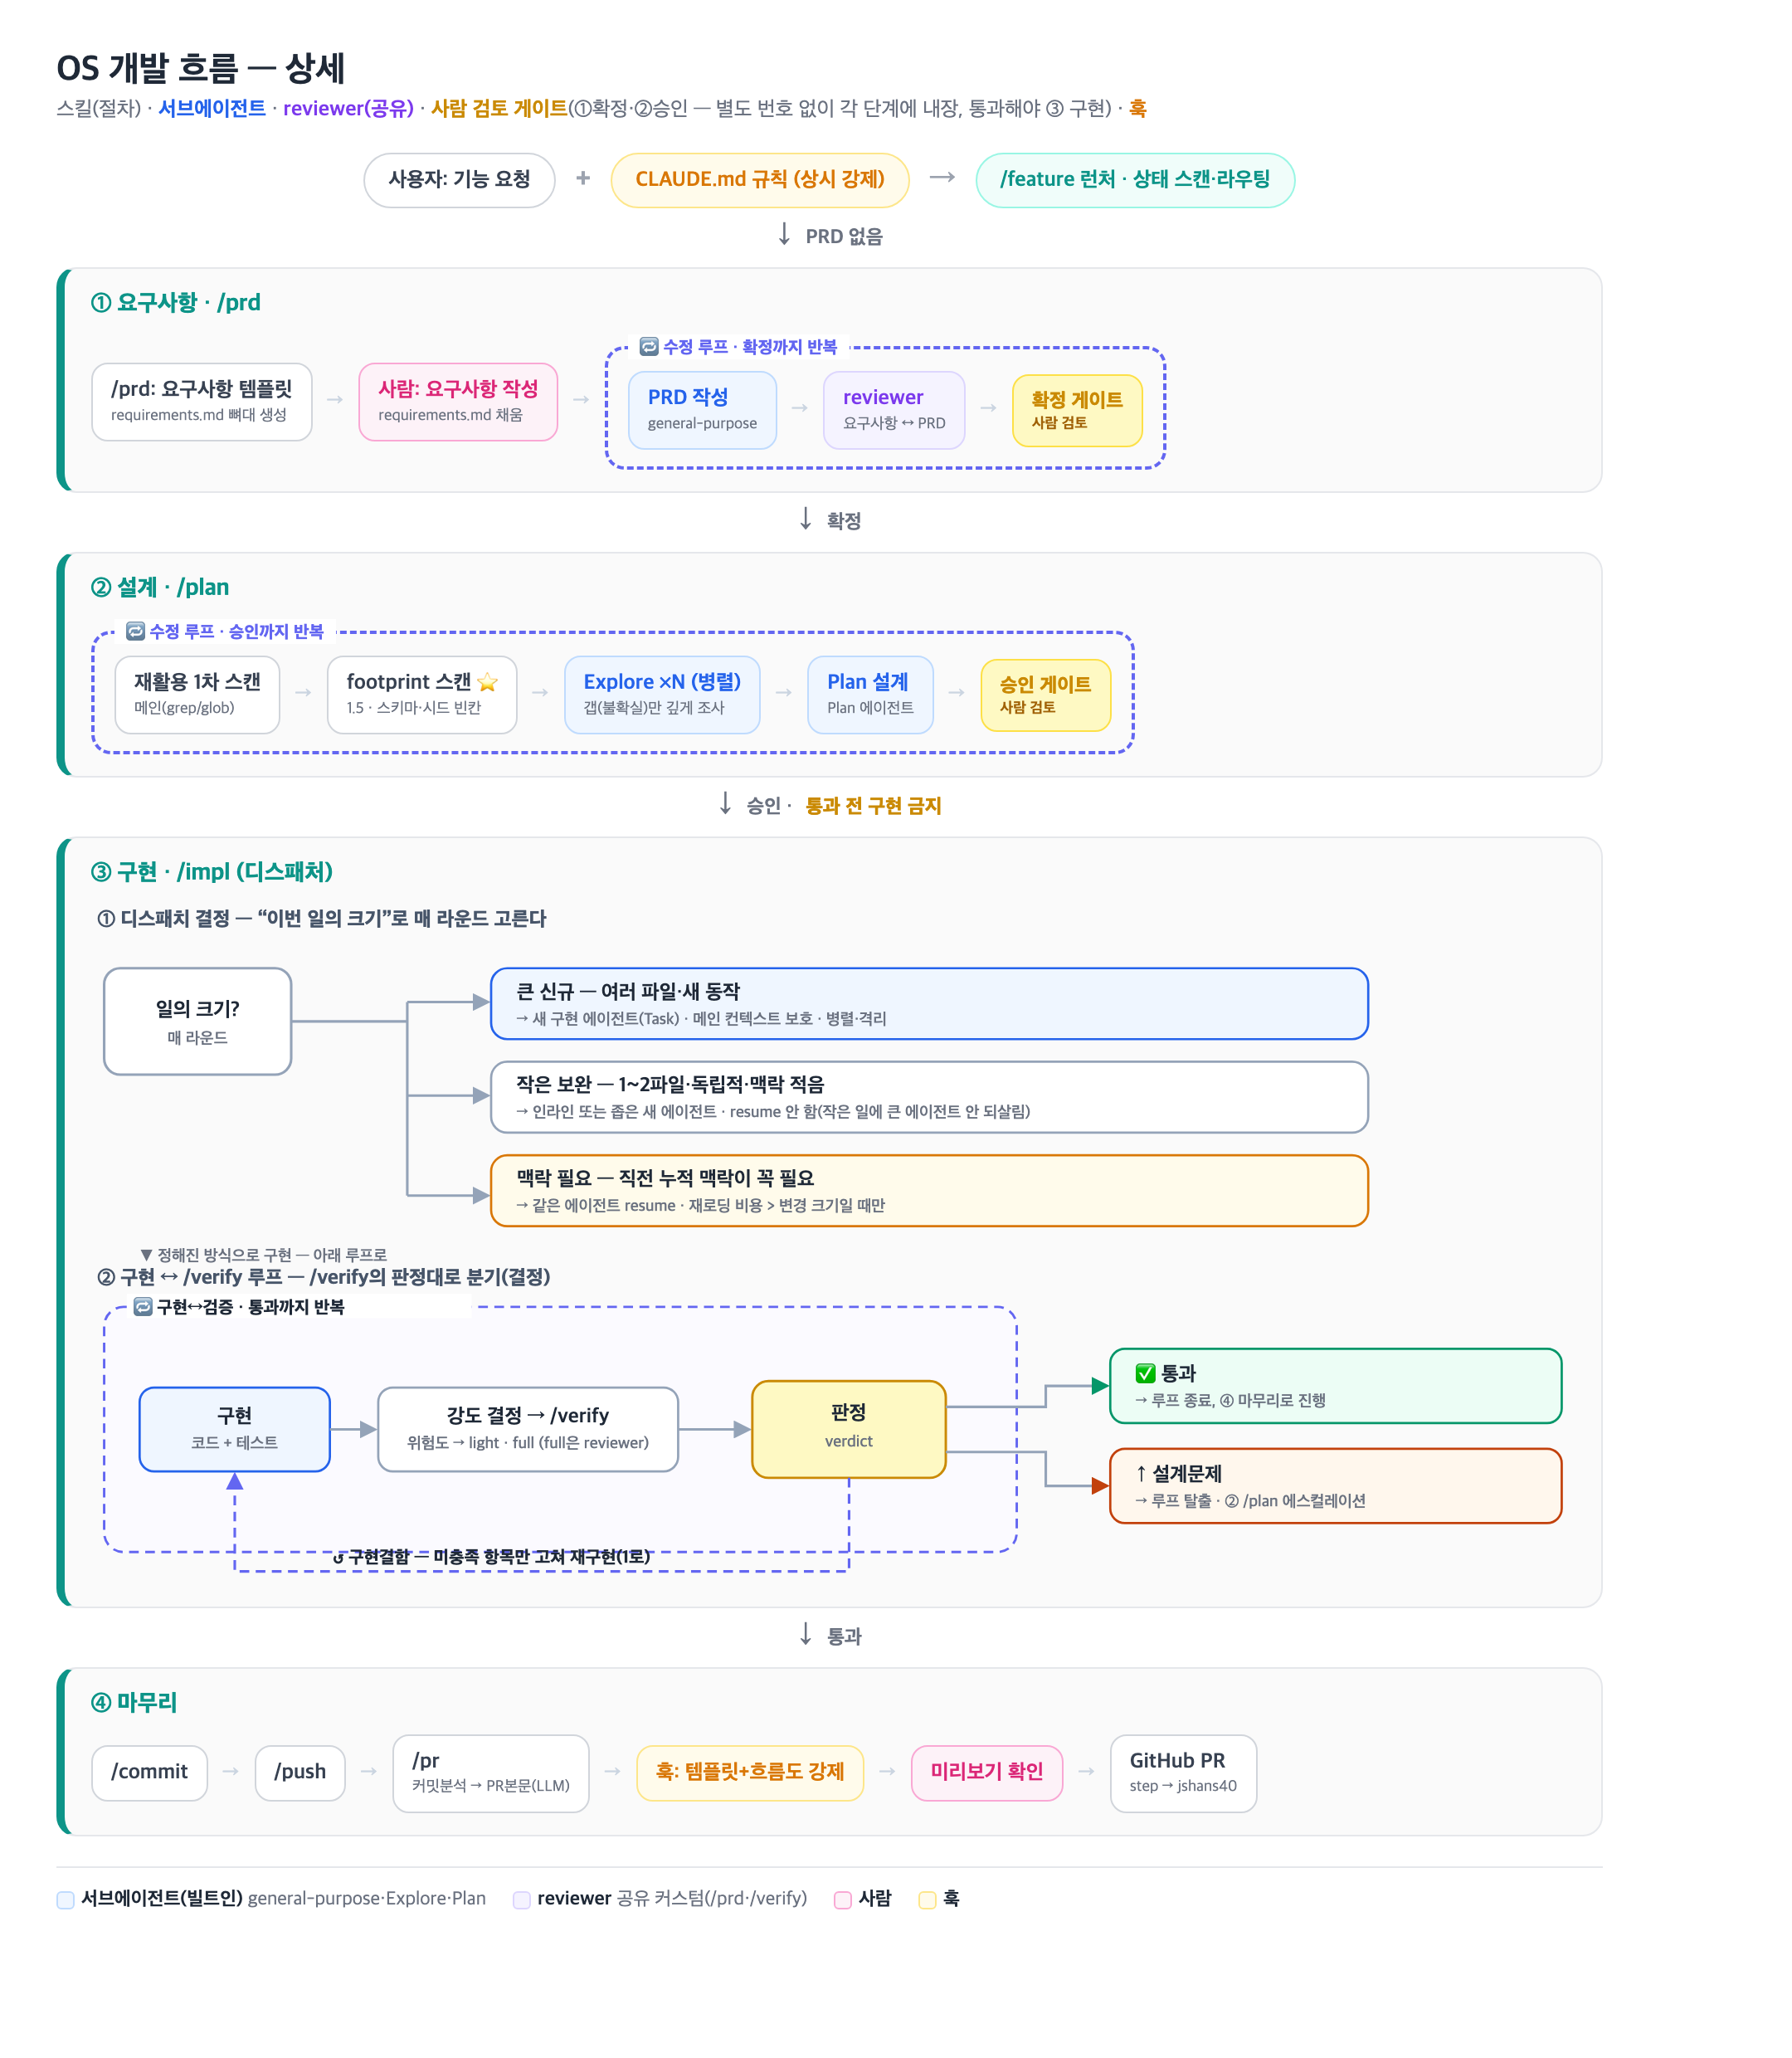
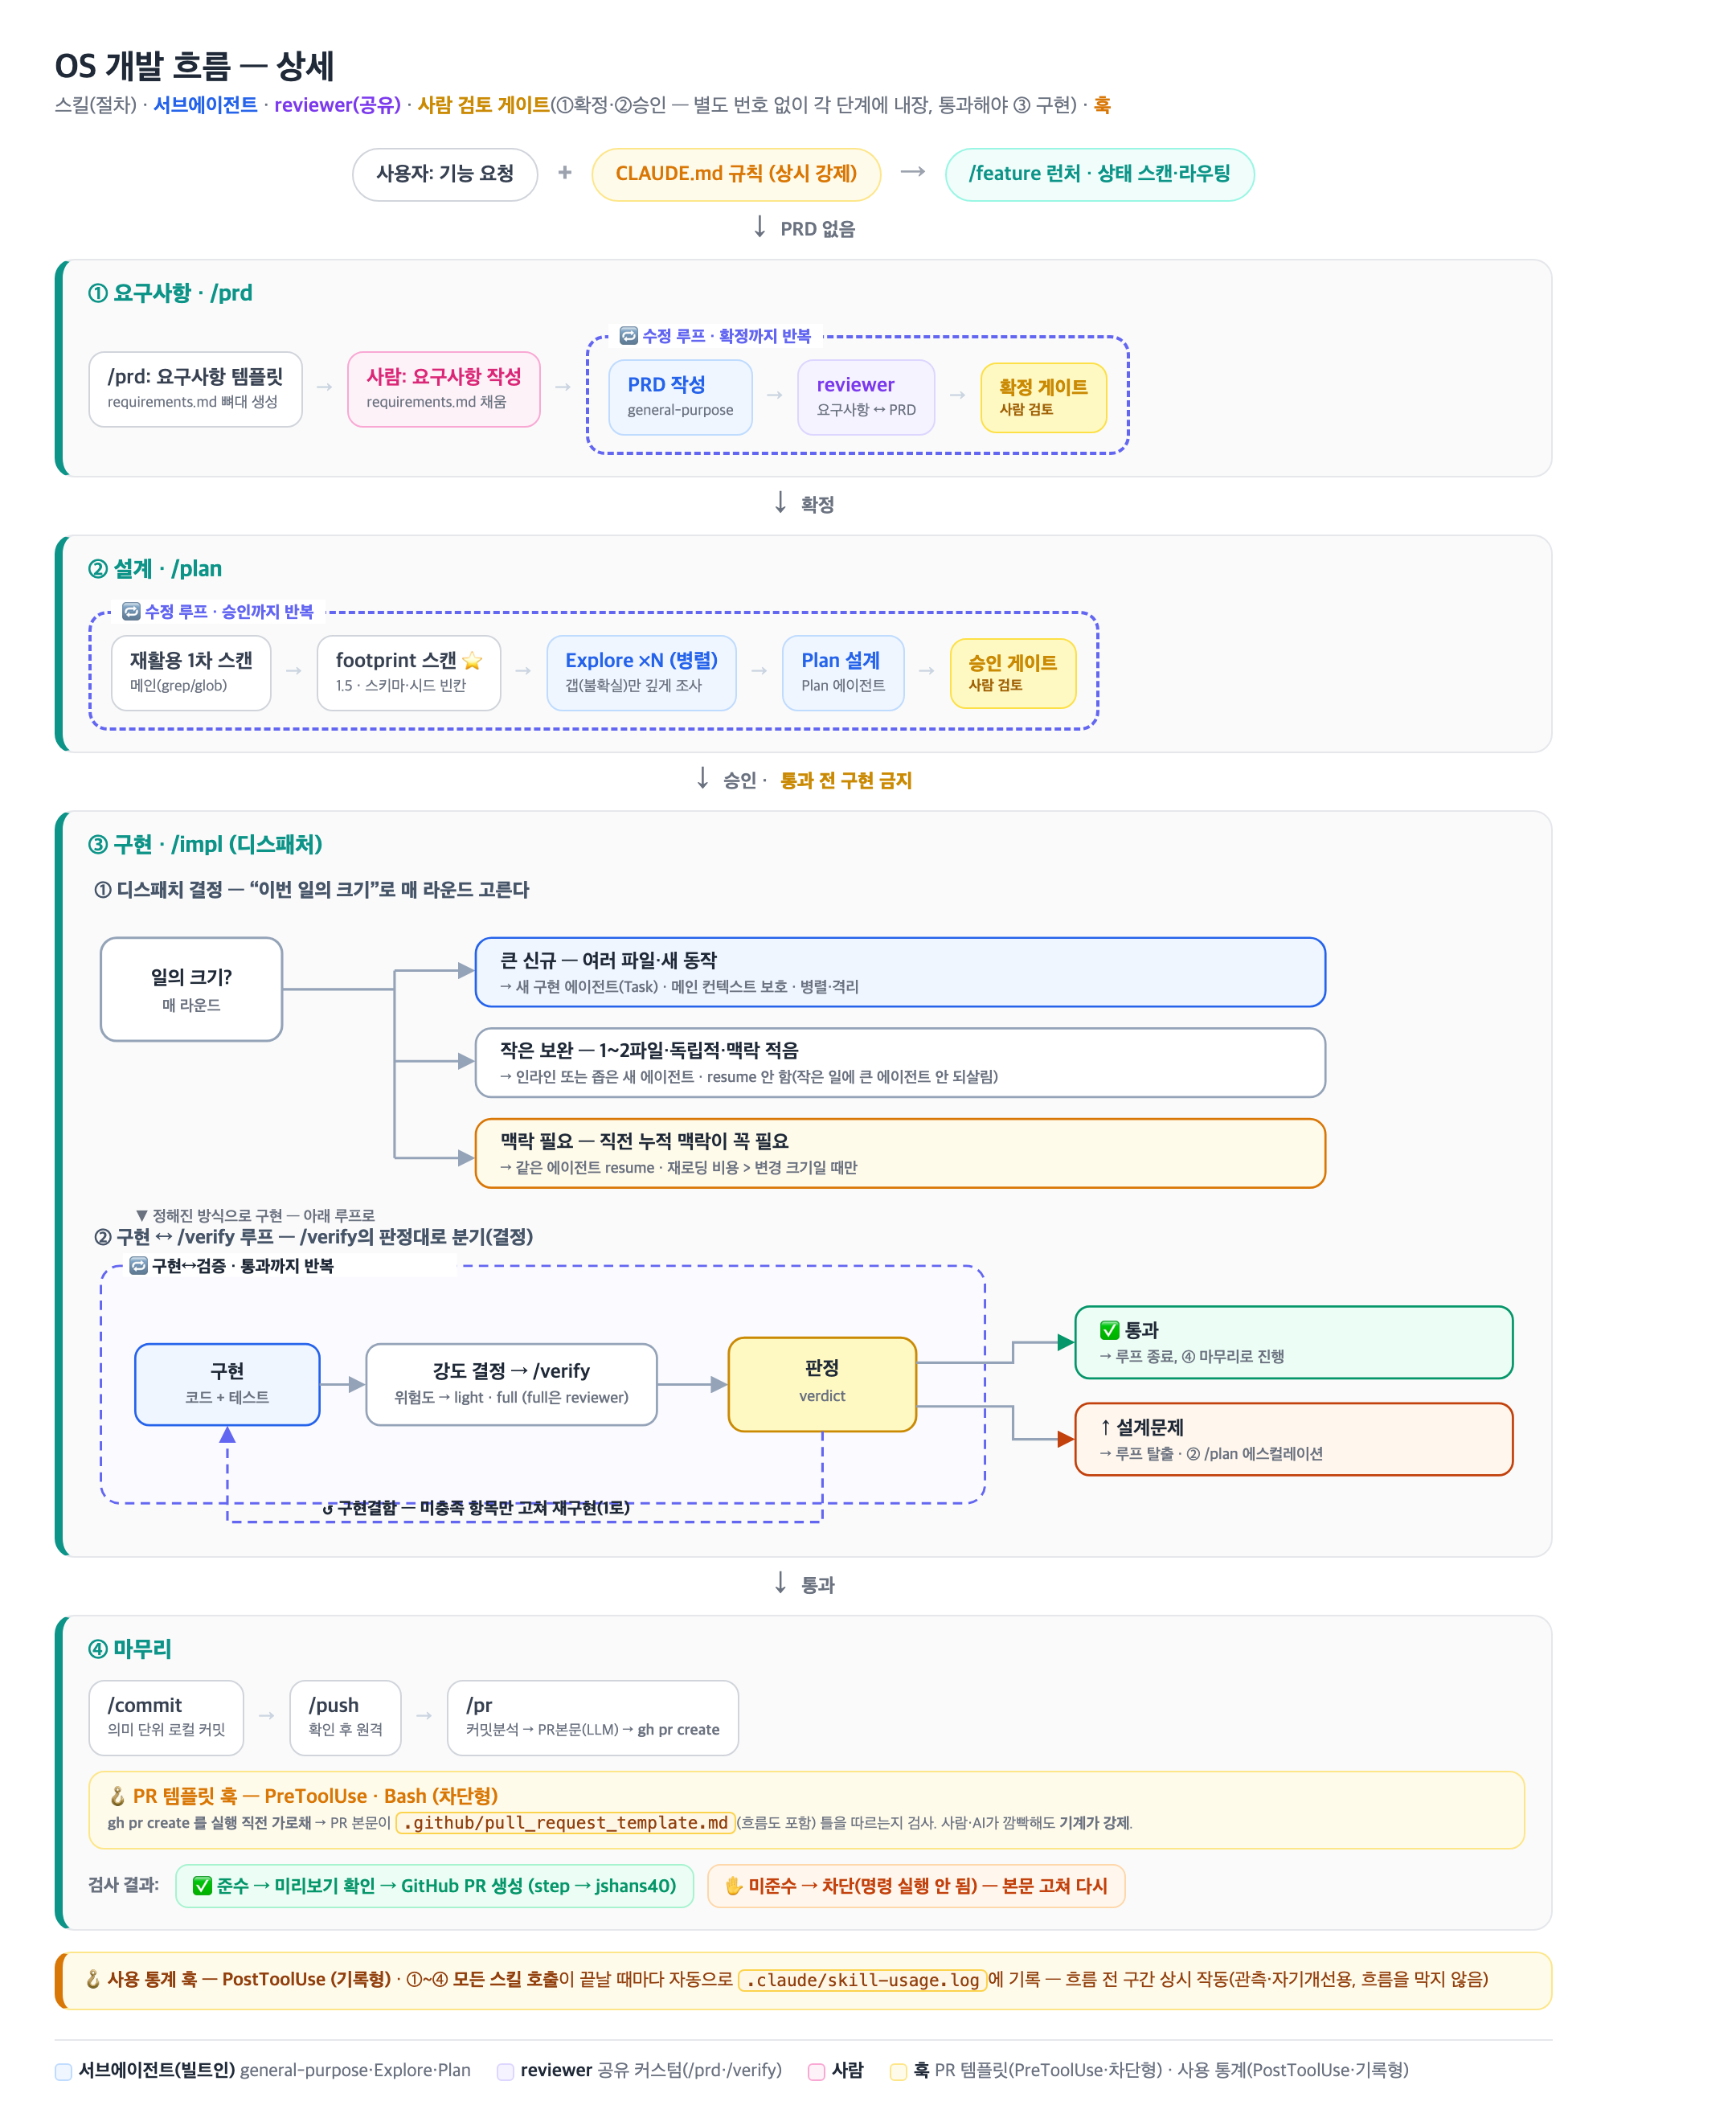
feat : os-flow 다이어그램에 훅 역할 명시 (차단형/기록형 구분)
- ④ 마무리: PR 템플릿 훅을 흐름으로 풀어 표현 — gh pr create 직전
  PreToolUse 가로채 → 템플릿(흐름도 포함) 준수 검사 → 준수/미준수 분기
  (미준수면 차단, 명령 실행 안 됨)
- 사용 통계 훅(PostToolUse·기록형) 하단 밴드 신설 — ①~④ 모든 스킬
  호출을 skill-usage.log에 기록, 흐름은 막지 않음
- 범례를 두 훅(차단형·기록형)으로 구분

diff --git a/docs/diagrams/os-flow.html b/docs/diagrams/os-flow.html
@@ -62,6 +62,9 @@
   .legend b{color:var(--ink);}
   .sw{display:inline-block;width:11px;height:11px;border-radius:3px;border:1px solid;vertical-align:middle;margin-right:4px;}
   .gate .g3{display:block;font-size:9px;font-weight:700;color:#a16207;margin-top:1px;}
+  .hookband{margin-top:13px;background:var(--hook);border:1px solid #fde68a;border-left:5px solid var(--hook-b);
+            border-radius:10px;padding:9px 13px;font-size:11.5px;line-height:1.45;color:#92400e;}
+  code{background:#fff7e6;border:1px solid #fcd34d;border-radius:4px;padding:0 4px;font-size:10.5px;color:#92400e;}
 </style>
 </head>
 <body>
@@ -200,25 +203,32 @@
   <div class="stage">
     <div class="head">④ 마무리</div>
     <div class="row">
-      <div class="chip c-skill"><span class="t">/commit</span></div>
+      <div class="chip c-skill"><span class="t">/commit</span><span class="k">의미 단위 로컬 커밋</span></div>
       <span class="sep">→</span>
-      <div class="chip c-skill"><span class="t">/push</span></div>
+      <div class="chip c-skill"><span class="t">/push</span><span class="k">확인 후 원격</span></div>
       <span class="sep">→</span>
-      <div class="chip c-skill"><span class="t">/pr</span><span class="k">커밋분석 → PR본문(LLM)</span></div>
-      <span class="sep">→</span>
-      <div class="chip c-hook"><span class="t">훅: 템플릿+흐름도 강제</span></div>
-      <span class="sep">→</span>
-      <div class="chip c-human"><span class="t">미리보기 확인</span></div>
-      <span class="sep">→</span>
-      <div class="chip c-skill"><span class="t">GitHub PR</span><span class="k">step → jshans40</span></div>
+      <div class="chip c-skill"><span class="t">/pr</span><span class="k">커밋분석 → PR본문(LLM) → <b>gh pr create</b></span></div>
+    </div>
+    <div class="row" style="margin-top:9px;">
+      <div class="chip c-hook" style="flex:1;">
+        <span class="t">🪝 PR 템플릿 훅 — PreToolUse · Bash (차단형)</span>
+        <span class="k"><b>gh pr create 를 실행 직전 가로채</b> → PR 본문이 <code>.github/pull_request_template.md</code>(흐름도 포함) 틀을 따르는지 검사. 사람·AI가 깜빡해도 <b>기계가 강제</b>.</span>
+      </div>
+    </div>
+    <div class="verdict">
+      <span class="vlabel">검사 결과:</span>
+      <span class="vchip v-ok">✅ 준수 → 미리보기 확인 → GitHub PR 생성 (step → jshans40)</span>
+      <span class="vchip v-esc">✋ 미준수 → 차단(명령 실행 안 됨) — 본문 고쳐 다시</span>
     </div>
   </div>
+
+  <div class="hookband">🪝 <b>사용 통계 훅 — PostToolUse (기록형)</b> · ①~④ <b>모든 스킬 호출</b>이 끝날 때마다 자동으로 <code>.claude/skill-usage.log</code>에 기록 — 흐름 전 구간 상시 작동(관측·자기개선용, 흐름을 막지 않음)</div>
 
   <div class="legend">
     <span><span class="sw" style="background:var(--agent);border-color:#bfdbfe"></span><b>서브에이전트(빌트인)</b> general-purpose·Explore·Plan</span>
     <span><span class="sw" style="background:var(--custom);border-color:#ddd6fe"></span><b>reviewer</b> 공유 커스텀(/prd·/verify)</span>
     <span><span class="sw" style="background:var(--human);border-color:#f9a8d4"></span><b>사람</b></span>
-    <span><span class="sw" style="background:var(--hook);border-color:#fde68a"></span><b>훅</b></span>
+    <span><span class="sw" style="background:var(--hook);border-color:#fde68a"></span><b>훅</b> PR 템플릿(PreToolUse·차단형) · 사용 통계(PostToolUse·기록형)</span>
   </div>
 </body>
 </html>